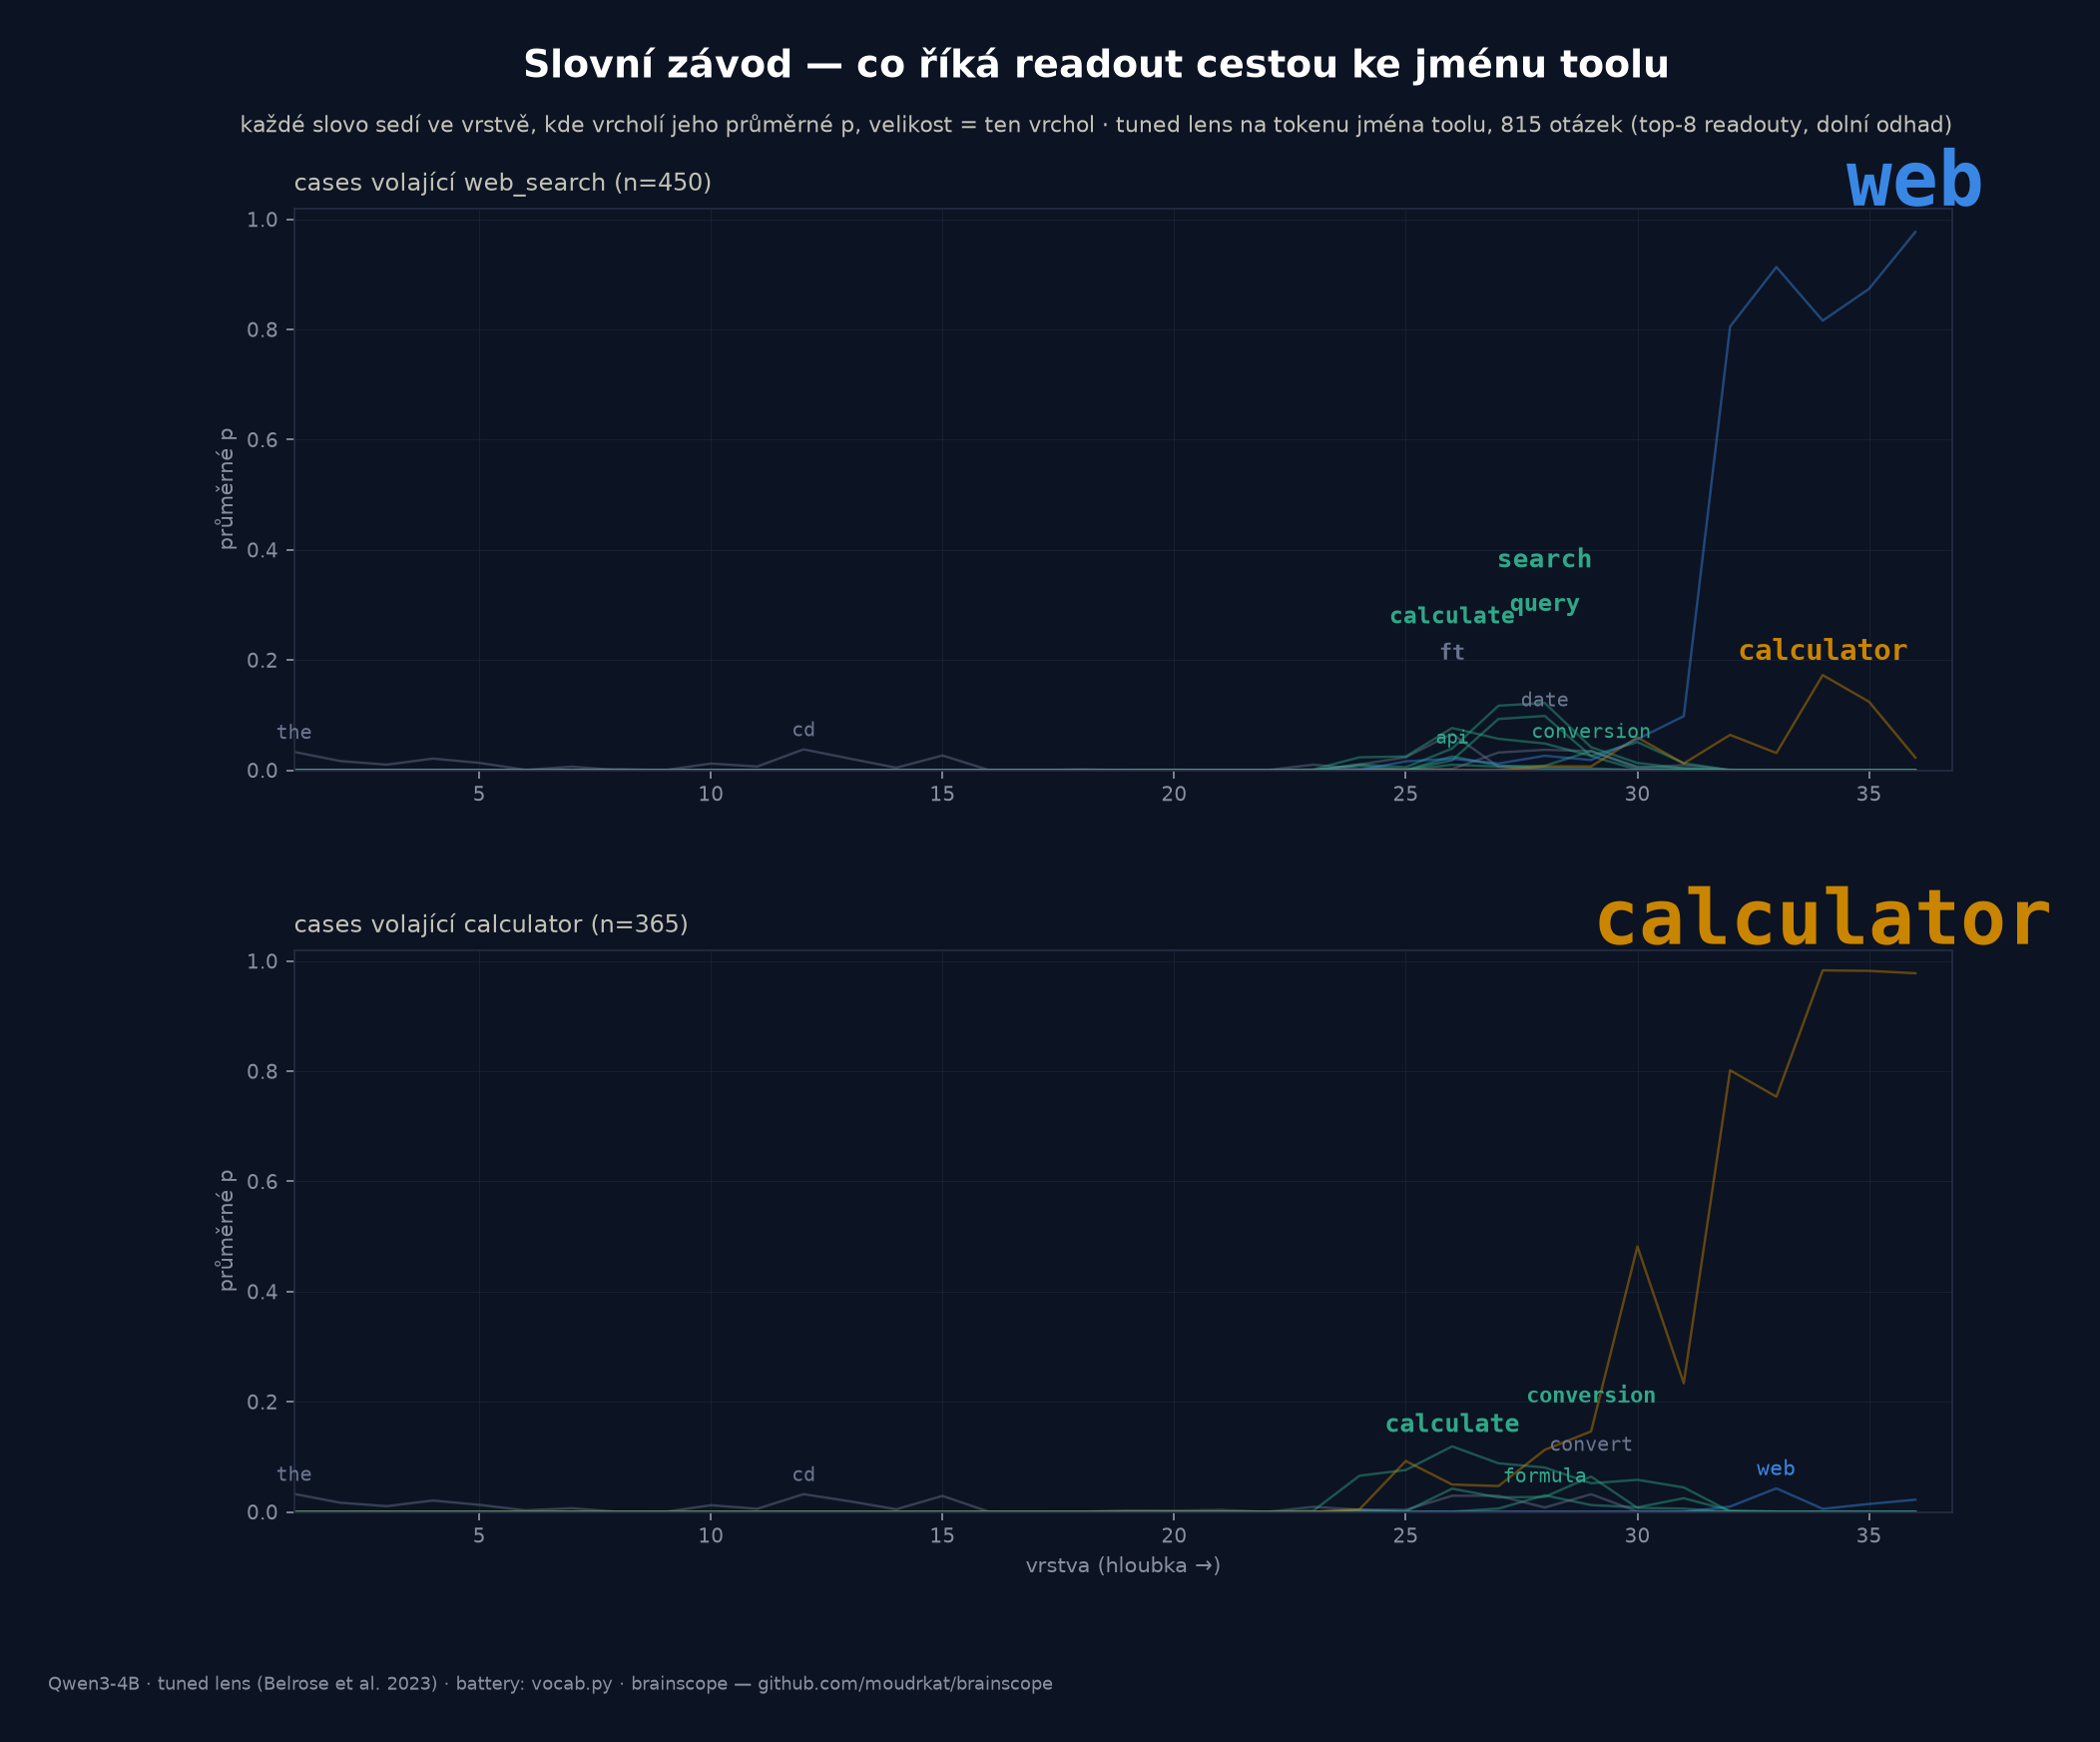
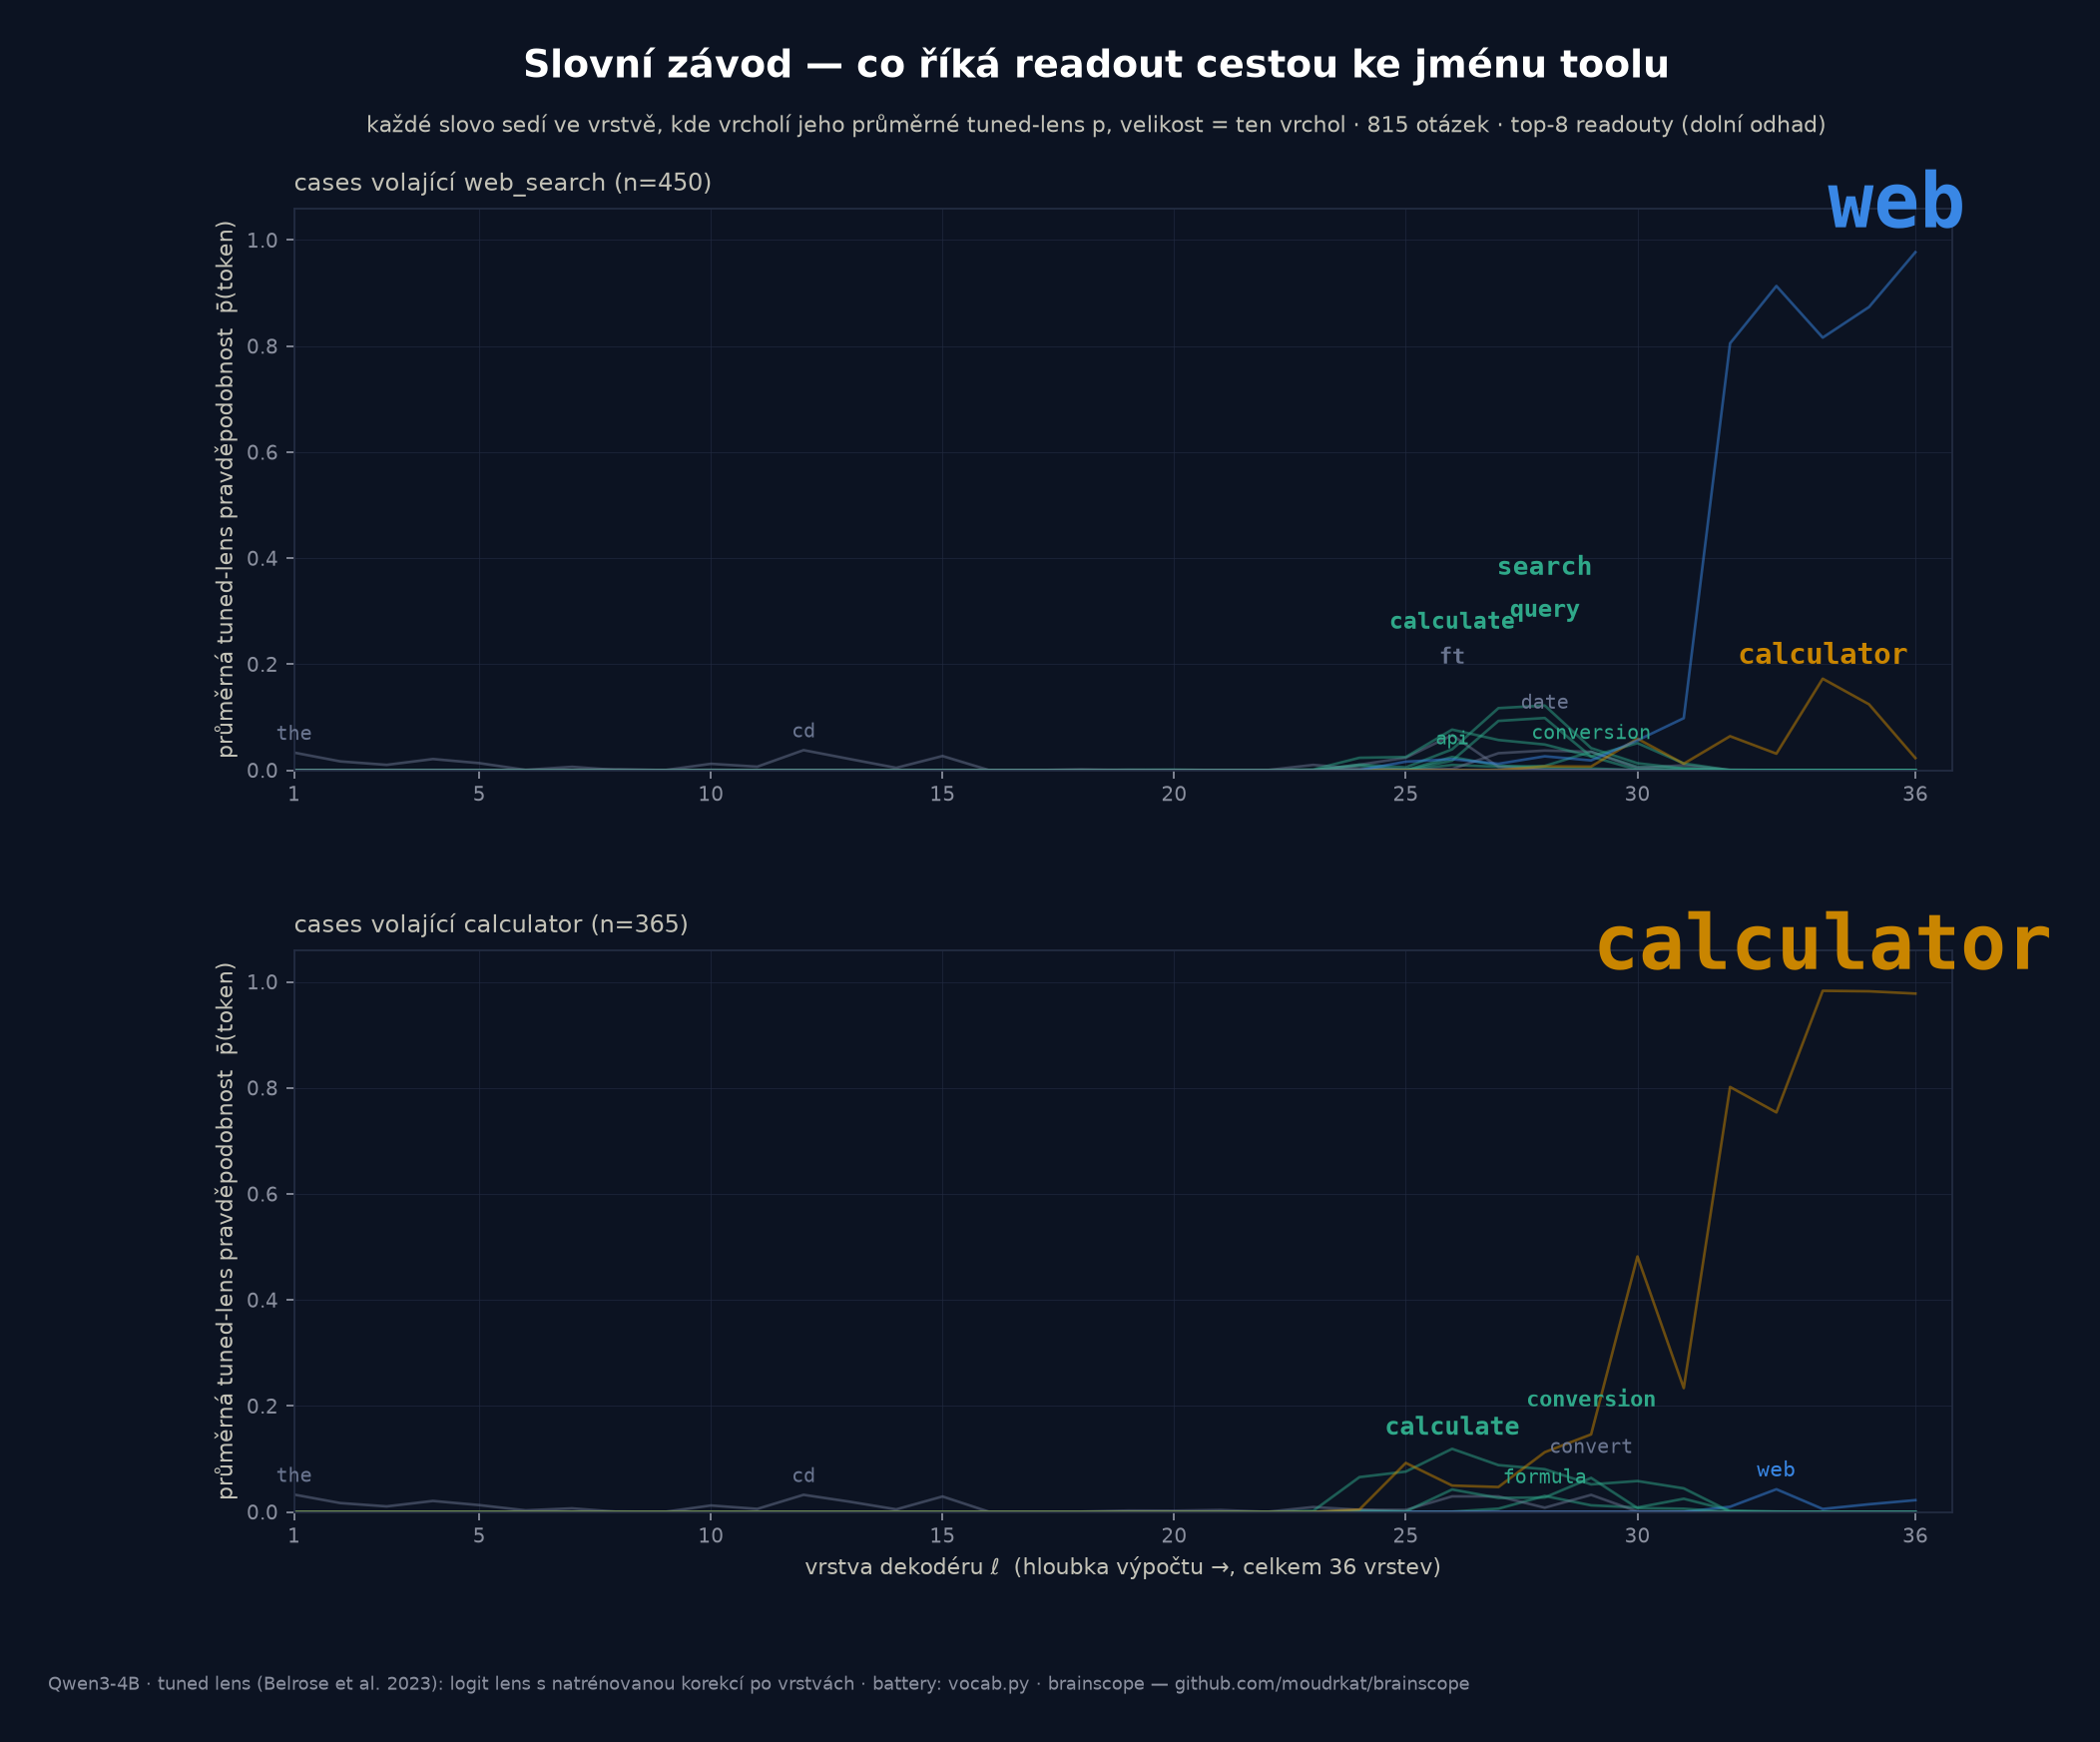
word race v2: single-case mode with prompt + story annotations, per-group mode, light background (validated palette), physicist axes

diff --git a/fig/render_wordrace.py b/fig/render_wordrace.py
@@ -1,11 +1,16 @@
-"""The word race: every token is written straight into the chart at the
-layer where its mean probability peaks, sized by that peak; a thin line
-traces its whole curve. No legend, no bars — just words rising and falling
-with depth until the schema name outgrows everything.
+"""The word race: tokens written straight into the chart, sized by their
+probability peak, with a thin line tracing each curve across depth.
 
-Data: stored top-8 tuned-lens readouts (mean over cases = a lower bound).
+Modes (combine freely):
+  (default)            two aggregate panels (web-bound / calculator-bound)
+  clear_calc | clear_search | torn_const | torn_fact
+                       one panel, that question group only
+  case:<case_id>       one panel, ONE question (exact per-case probabilities,
+                       prompt shown) — e.g. case:torn_const_b229
+  light                white background (palette validated for light surface)
+  cz                   Czech labels
 
-uv run --with matplotlib --no-project python3 fig/render_wordrace.py [cz]
+uv run --with matplotlib --no-project python3 fig/render_wordrace.py [modes...]
 """
 import json
 import os
@@ -19,39 +24,81 @@ import matplotlib.pyplot as plt
 HERE = os.path.dirname(os.path.abspath(__file__))
 DATA = json.load(open(f"{HERE}/vocab_census.json"))
 
-SURFACE, PAGE = "#111a2e", "#0c1322"
-INK, INK2, MUTED = "#ffffff", "#c3c2b7", "#8a8f9e"
-GRID = "#232c42"
-C_CALC, C_WEB, C_GEN = "#c98500", "#3987e5", "#2fa889"
-GRAY = "#6a7590"
-
 CZ = "cz" in sys.argv[1:]
+LIGHT = "light" in sys.argv[1:]
+GROUP_NAMES = ("clear_calc", "clear_search", "torn_const", "torn_fact")
+ONE_GROUP = next((a for a in sys.argv[1:] if a in GROUP_NAMES), None)
+ONE_CASE = next((a.split(":", 1)[1] for a in sys.argv[1:]
+                 if a.startswith("case:")), None)
+
+if LIGHT:
+    PAGE, SURFACE = "#ffffff", "#f2f4f8"
+    INK, INK2, MUTED = "#1a2233", "#3c4658", "#6a7590"
+    GRID = "#d8dde8"
+    C_CALC, C_WEB, C_GEN = "#9c6a00", "#2f6fc4", "#1f8a6d"
+    GRAY = "#8a93a8"
+else:
+    PAGE, SURFACE = "#0c1322", "#111a2e"
+    INK, INK2, MUTED = "#ffffff", "#c3c2b7", "#8a8f9e"
+    GRID = "#232c42"
+    C_CALC, C_WEB, C_GEN = "#c98500", "#3987e5", "#2fa889"
+    GRAY = "#6a7590"
+
 T = {
     "title": "The word race — what the readout says on the way to the tool name",
-    "sub": "each word sits at the layer where its mean probability peaks, sized by that peak · "
-           "tuned lens at the tool-name token, 815 questions (top-8 readouts, a lower bound)",
+    "title_case": "One tool call, watched from the inside",
+    "sub": "each word sits at the decoder layer where its mean tuned-lens probability peaks, sized by that peak · "
+           "%d questions · top-8 readouts (a lower bound)",
+    "sub_case": "each word = a token in the tuned-lens readout at the token where the agent writes the tool name ·\n"
+                "word position & line = its probability across depth, word size = its peak",
     "web": "cases that called web_search (n=%d)",
     "calc": "cases that called calculator (n=%d)",
-    "layer": "layer (depth →)",
-    "meanp": "mean p",
-    "foot": "Qwen3-4B · tuned lens (Belrose et al. 2023) · battery: vocab.py · brainscope — github.com/moudrkat/brainscope",
+    "xlabel": "decoder layer ℓ  (computation depth →, 36 layers total)",
+    "ylabel": "mean tuned-lens probability  p̄(token)",
+    "ylabel_case": "tuned-lens probability  p(token)",
+    "ann_mid": "mid-stack, the readout reaches\nfor computing: “calculate”, then\n“calculator” — the other racer",
+    "ann_end": "the last two layers flip it —\n“web” wins and web_search\nis what gets called",
+    "foot": "Qwen3-4B · tuned lens (Belrose et al. 2023): logit lens with trained per-layer corrections · "
+            "battery: vocab.py · brainscope — github.com/moudrkat/brainscope",
 }
 if CZ:
     T = {
         "title": "Slovní závod — co říká readout cestou ke jménu toolu",
-        "sub": "každé slovo sedí ve vrstvě, kde vrcholí jeho průměrné p, velikost = ten vrchol · "
-               "tuned lens na tokenu jména toolu, 815 otázek (top-8 readouty, dolní odhad)",
+        "title_case": "Jeden tool call, sledovaný zevnitř",
+        "sub": "každé slovo sedí ve vrstvě, kde vrcholí jeho průměrné tuned-lens p, velikost = ten vrchol · "
+               "%d otázek · top-8 readouty (dolní odhad)",
+        "sub_case": "každé slovo = token v tuned-lens readoutu na tokenu, kde agent píše jméno toolu ·\n"
+                    "pozice slova a čára = jeho pravděpodobnost po hloubce, velikost slova = vrchol",
         "web": "cases volající web_search (n=%d)",
         "calc": "cases volající calculator (n=%d)",
-        "layer": "vrstva (hloubka →)",
-        "meanp": "průměrné p",
-        "foot": "Qwen3-4B · tuned lens (Belrose et al. 2023) · battery: vocab.py · brainscope — github.com/moudrkat/brainscope",
+        "xlabel": "vrstva dekodéru ℓ  (hloubka výpočtu →, celkem 36 vrstev)",
+        "ylabel": "průměrná tuned-lens pravděpodobnost  p̄(token)",
+        "ylabel_case": "tuned-lens pravděpodobnost  p(token)",
+        "ann_mid": "uprostřed sítě readout sahá\npo počítání: „calculate“, pak\n„calculator“ — druhý závodník",
+        "ann_end": "poslední dvě vrstvy to překlopí —\nvyhraje „web“ a volá se\nweb_search",
+        "foot": "Qwen3-4B · tuned lens (Belrose et al. 2023): logit lens s natrénovanou korekcí po vrstvách · "
+                "battery: vocab.py · brainscope — github.com/moudrkat/brainscope",
     }
 
 GENERIC = {"search", "lookup", "look", "query", "google", "api", "database",
            "find", "fetch", "browse", "retrieve", "internet", "calculate",
            "calc", "calculation", "compute", "computing", "math", "evaluate",
            "formula", "conversion", "function"}
+GROUP_TITLES = {
+    "clear_calc": ("clear arithmetic", "čistá aritmetika"),
+    "clear_search": ("clear current facts", "čistá aktuální fakta"),
+    "torn_const": ("torn: constant + math", "torn: konstanta + výpočet"),
+    "torn_fact": ("torn: fact + math", "torn: fakt + výpočet"),
+}
+
+
+def case_prompt(case_id):
+    """census stores no prompts; the battery is deterministic, regenerate"""
+    sys.path.insert(0, os.path.dirname(HERE))
+    import vocab
+    groups = dict(vocab.big_groups()) if "_b" in case_id else dict(vocab.GROUPS)
+    grp, idx = case_id.rsplit("_", 1)
+    return groups[grp][int(idx.lstrip("b"))]
 
 
 def tok_color(t):
@@ -78,49 +125,102 @@ def curves(cases, min_peak=0.02, max_words=18):
     return {t: peaked[t] for t in keep}
 
 
-web = {k: v for k, v in DATA.items() if v["picked"] == "web_search"}
-calc = {k: v for k, v in DATA.items() if v["picked"] == "calculator"}
-
-fig, axes = plt.subplots(2, 1, figsize=(13.4, 10.6), dpi=160,
-                         gridspec_kw={"hspace": 0.32})
-fig.patch.set_facecolor(PAGE)
-fig.suptitle(T["title"], color=INK, fontsize=17, fontweight="bold",
-             family="sans-serif", y=0.975)
-fig.text(0.5, 0.925, T["sub"], ha="center", color=INK2, fontsize=9.8,
-         family="sans-serif")
-
-for ax, cases, ptitle in [(axes[0], web, T["web"]), (axes[1], calc, T["calc"])]:
+def draw_panel(ax, cs, ptitle, ylabel, annotate_flip=False):
     ax.set_facecolor(PAGE)
     for spine in ax.spines.values():
         spine.set_color(GRID)
     ax.tick_params(colors=MUTED, labelsize=9)
-    ax.grid(color=GRID, lw=0.5, alpha=0.5)
+    ax.set_xticks([1, 5, 10, 15, 20, 25, 30, 36])
+    ax.grid(color=GRID, lw=0.5, alpha=0.6)
     ax.set_axisbelow(True)
     ax.set_xlim(1, 36.8)
-    ax.set_ylim(0, 1.02)
-    ax.set_title(ptitle % len(cases), color=INK2, fontsize=11,
-                 family="sans-serif", loc="left", pad=8)
-    ax.set_ylabel(T["meanp"], color=MUTED, fontsize=9.5)
-    cs = curves(cases)
-    placed = []      # (x, y) of placed labels, for simple collision nudge
+    ax.set_ylim(0, 1.06)
+    ax.set_title(ptitle, color=INK2, fontsize=11, family="sans-serif",
+                 loc="left", pad=8)
+    ax.set_ylabel(ylabel, color=INK2, fontsize=10)
+    placed = []
     for t, c in sorted(cs.items(), key=lambda kv: max(kv[1])):
         color = tok_color(t)
-        xs = range(1, 37)
-        ax.plot(xs, c, color=color, lw=1.1, alpha=0.45)
+        ax.plot(range(1, 37), c, color=color, lw=1.2, alpha=0.5)
         pl = max(range(36), key=lambda l: c[l])
         px, py = pl + 1, max(c)
         size = 8 + 26 * min(1.0, py / 0.9)
-        # nudge straight up if a previous label is too close
         for qx, qy in placed:
             if abs(px - qx) < 2.6 and abs(py - qy) < 0.055:
                 py += 0.055
         placed.append((px, py))
-        ax.text(px, py + 0.015, t, ha="center", va="bottom", color=color,
-                fontsize=size, family="monospace",
+        ax.text(min(px, 35.6), min(py + 0.015, 0.99), t, ha="center",
+                va="bottom", color=color, fontsize=size, family="monospace",
                 fontweight="bold" if py > 0.10 else "normal")
-axes[1].set_xlabel(T["layer"], color=MUTED, fontsize=9.5)
-fig.text(0.01, 0.005, T["foot"], color=MUTED, fontsize=8.2, family="sans-serif")
+    if annotate_flip and "web" in cs:
+        mid = cs.get("calculate") or cs.get("calculator")
+        if mid:
+            pl = max(range(36), key=lambda l: mid[l])
+            ax.annotate(T["ann_mid"], xy=(pl + 0.7, mid[pl]),
+                        xytext=(8.5, 0.74),
+                        color=C_GEN if "calculate" in cs else C_CALC,
+                        fontsize=10.5, family="sans-serif",
+                        linespacing=1.45, ha="center",
+                        arrowprops=dict(arrowstyle="->", color=C_GEN if
+                                        "calculate" in cs else C_CALC,
+                                        lw=1.3, shrinkB=10))
+        cw = cs["web"]
+        ax.annotate(T["ann_end"], xy=(35.9, cw[35] - 0.06),
+                    xytext=(10.5, 0.38),
+                    color=C_WEB, fontsize=10.5, family="sans-serif",
+                    linespacing=1.45, ha="center",
+                    arrowprops=dict(arrowstyle="->", color=C_WEB, lw=1.3,
+                                    shrinkB=12))
 
-name = "fig_wordrace_" + ("cz" if CZ else "en")
+
+if ONE_CASE:
+    v = DATA[ONE_CASE]
+    cs = curves({ONE_CASE: v}, min_peak=0.05)
+    prompt = case_prompt(ONE_CASE)
+    fig, ax = plt.subplots(figsize=(12.0, 6.4), dpi=160)
+    fig.patch.set_facecolor(PAGE)
+    fig.subplots_adjust(top=0.76, bottom=0.11, left=0.08, right=0.97)
+    fig.suptitle(T["title_case"], color=INK, fontsize=17.5, fontweight="bold",
+                 family="sans-serif", y=0.97)
+    fig.text(0.5, 0.885, f"“{prompt}”", ha="center", color=INK,
+             fontsize=12.5, family="monospace", fontweight="bold")
+    fig.text(0.5, 0.80, T["sub_case"], ha="center", color=INK2,
+             fontsize=9.5, family="sans-serif", linespacing=1.4)
+    picked = "web_search" if v["picked"] == "web_search" else "calculator"
+    draw_panel(ax, cs, f"→ {('volá' if CZ else 'calls')} {picked}",
+               T["ylabel_case"], annotate_flip=(v["picked"] == "web_search"))
+    ax.set_xlabel(T["xlabel"], color=INK2, fontsize=10)
+    fig.text(0.01, 0.008, T["foot"], color=MUTED, fontsize=8, family="sans-serif")
+    name = f"fig_wordrace_{ONE_CASE}_" + ("light_" if LIGHT else "") + ("cz" if CZ else "en")
+elif ONE_GROUP:
+    cases = {k: v for k, v in DATA.items() if v["group"] == ONE_GROUP}
+    gt = GROUP_TITLES[ONE_GROUP][1 if CZ else 0]
+    fig, ax = plt.subplots(figsize=(12.6, 6.2), dpi=160)
+    fig.patch.set_facecolor(PAGE)
+    fig.subplots_adjust(top=0.80, bottom=0.11, left=0.08, right=0.97)
+    fig.suptitle(T["title"], color=INK, fontsize=16, fontweight="bold",
+                 family="sans-serif", y=0.965)
+    fig.text(0.5, 0.855, T["sub"] % len(cases), ha="center", color=INK2,
+             fontsize=9.8, family="sans-serif")
+    draw_panel(ax, curves(cases), f"{gt} (n={len(cases)})", T["ylabel"])
+    ax.set_xlabel(T["xlabel"], color=INK2, fontsize=10)
+    fig.text(0.01, 0.008, T["foot"], color=MUTED, fontsize=8, family="sans-serif")
+    name = f"fig_wordrace_{ONE_GROUP}_" + ("light_" if LIGHT else "") + ("cz" if CZ else "en")
+else:
+    web = {k: v for k, v in DATA.items() if v["picked"] == "web_search"}
+    calc = {k: v for k, v in DATA.items() if v["picked"] == "calculator"}
+    fig, axes = plt.subplots(2, 1, figsize=(13.4, 10.6), dpi=160,
+                             gridspec_kw={"hspace": 0.32})
+    fig.patch.set_facecolor(PAGE)
+    fig.suptitle(T["title"], color=INK, fontsize=17, fontweight="bold",
+                 family="sans-serif", y=0.975)
+    fig.text(0.5, 0.925, T["sub"] % len(DATA), ha="center", color=INK2,
+             fontsize=9.8, family="sans-serif")
+    draw_panel(axes[0], curves(web), T["web"] % len(web), T["ylabel"])
+    draw_panel(axes[1], curves(calc), T["calc"] % len(calc), T["ylabel"])
+    axes[1].set_xlabel(T["xlabel"], color=INK2, fontsize=10)
+    fig.text(0.01, 0.005, T["foot"], color=MUTED, fontsize=8.2, family="sans-serif")
+    name = "fig_wordrace_" + ("light_" if LIGHT else "") + ("cz" if CZ else "en")
+
 fig.savefig(f"{HERE}/{name}.png", facecolor=PAGE, bbox_inches="tight", pad_inches=0.3)
 print("saved", name)